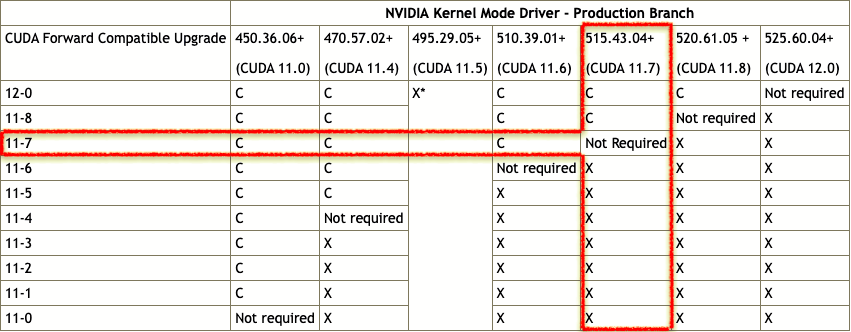
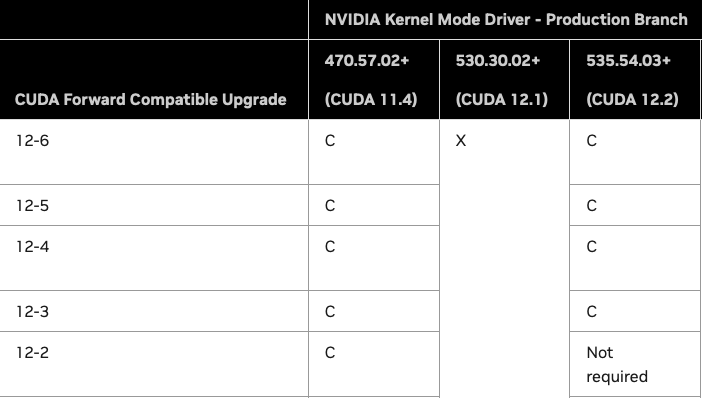
upd doc

diff --git a/GPU.md b/GPU.md
@@ -83,9 +83,11 @@ systemctl restart docker
 
 ### Testar instalação
 ```sh
-docker run --rm --gpus all nvidia/cuda:11.6.2-base-ubuntu20.04 nvidia-smi
+docker run --rm --gpus all nvidia/cuda:12.4.1-base-ubuntu20.04 nvidia-smi
 ```
 
-## Configuração CUDA, Pytorch
+## Configuração driver Nvidia, CUDA & Pytorch
+
+![](./images/nvidia-cuda.png)
 
 ![](./images/pytorch-cuda.png)
